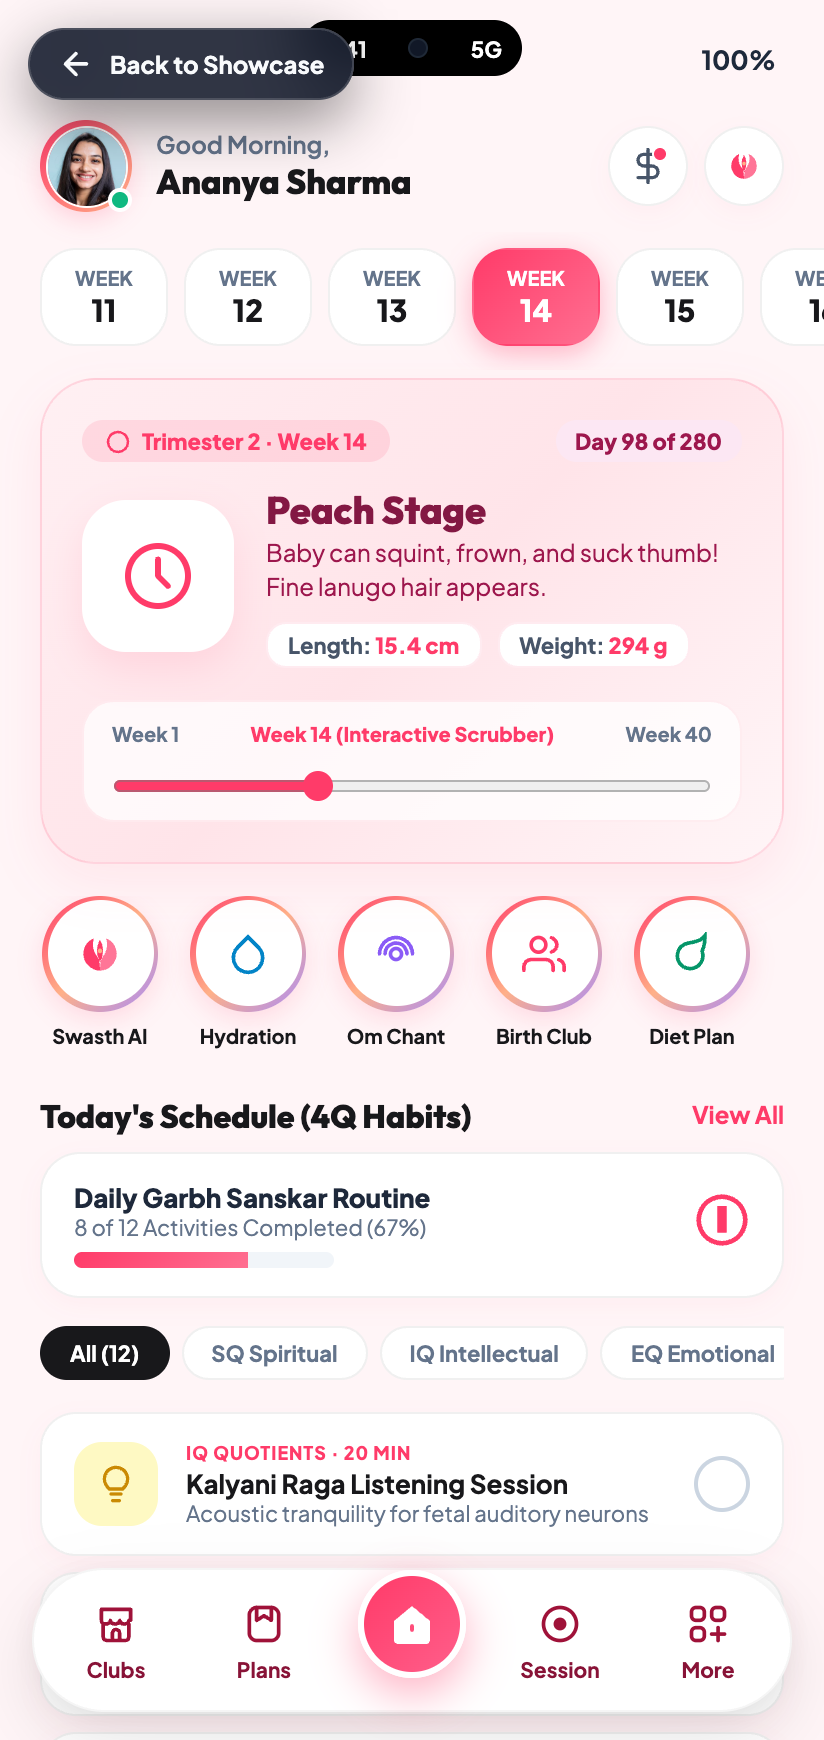
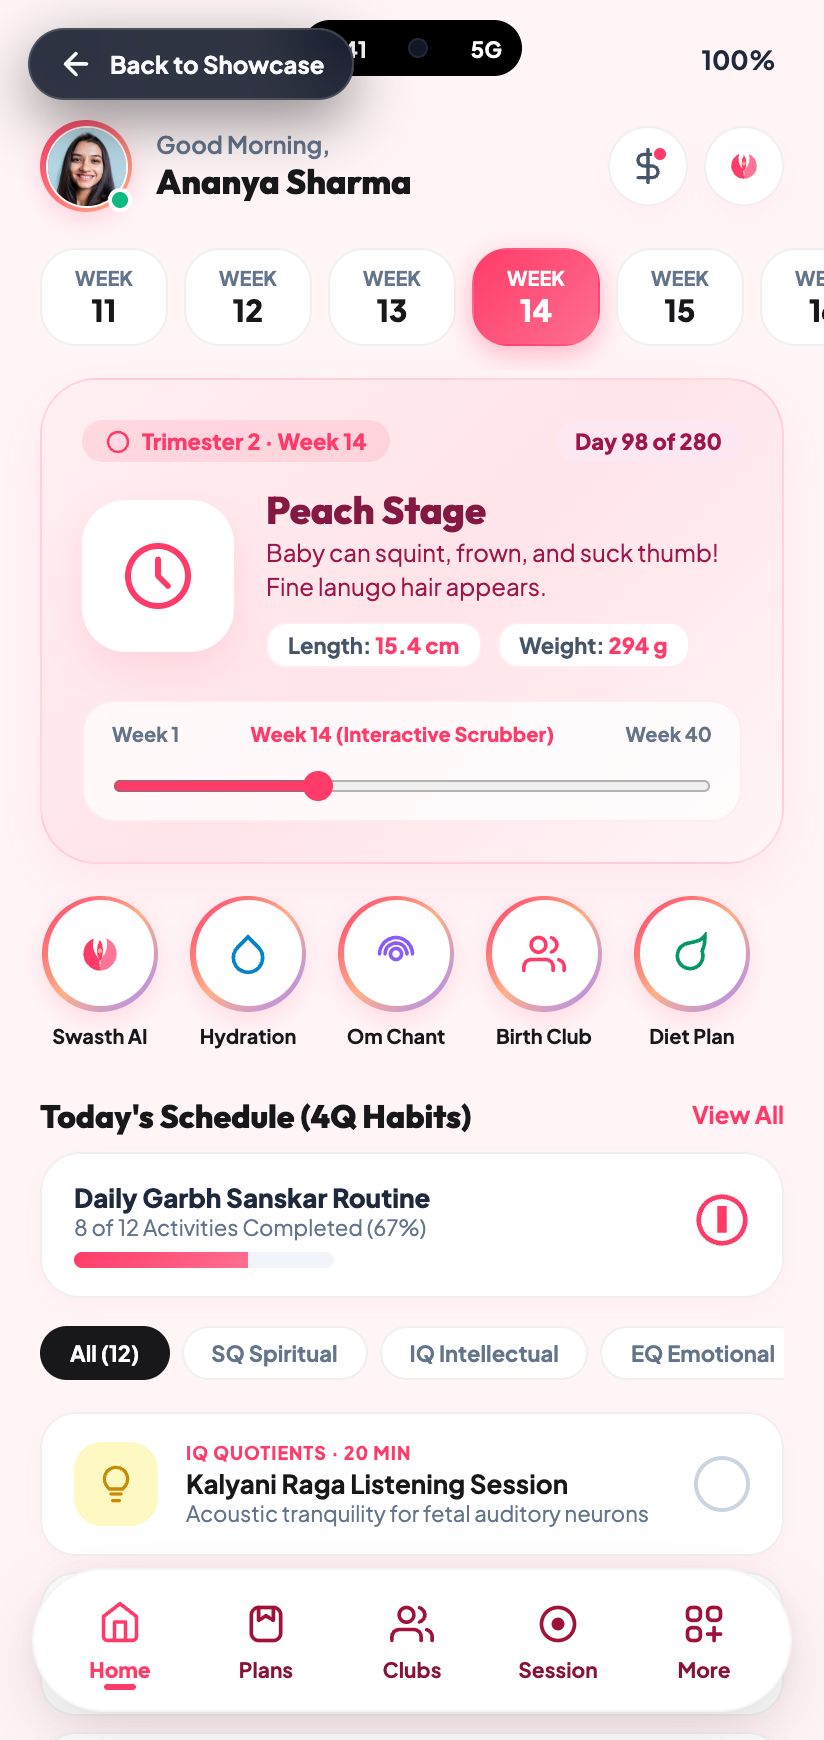
Set Home Page as default page on load and position Home as first active tab in navigation dock

diff --git a/website/app/index.html b/website/app/index.html
@@ -922,13 +922,14 @@
       align-items: center;
       justify-content: center;
       gap: 4px;
-      width: 54px;
+      width: 58px;
       height: 60px;
       border: none;
       background: transparent;
       cursor: pointer;
       color: var(--nav-stroke-idle);
       transition: all 0.2s cubic-bezier(0.16, 1, 0.3, 1);
+      position: relative;
     }
     .ref-nav-tab .tab-icon-wrap {
       width: 24px;
@@ -951,6 +952,15 @@
     .ref-nav-tab.active .tab-label {
       color: var(--nav-active);
       font-weight: 800;
+    }
+    .ref-nav-tab.active::after {
+      content: '';
+      position: absolute;
+      bottom: 5px;
+      width: 16px;
+      height: 3px;
+      border-radius: 999px;
+      background: var(--nav-active);
     }
     
     /* Center Elevated Circular Button (Like Reference) */
@@ -2793,21 +2803,19 @@
 
 
     <!-- ========================================================
-         NAVIGATION DOCK (MATCHING EXACT REFERENCE media_1791232095554)
+         NAVIGATION DOCK: 1. Home | 2. Plans | 3. Clubs | 4. Session | 5. More
          ======================================================== -->
     <div class="reference-nav-dock" id="bottomDock">
       
-      <!-- 1. Clubs -->
-      <button class="ref-nav-tab" id="tabBtn-community" onclick="switchTab('community')">
+      <!-- 1. Home (DEFAULT ACTIVE TAB) -->
+      <button class="ref-nav-tab active" id="tabBtn-home" onclick="switchTab('home')">
         <div class="tab-icon-wrap">
           <svg width="22" height="22" viewBox="0 0 24 24" fill="none" stroke="currentColor" stroke-width="2" stroke-linecap="round" stroke-linejoin="round">
-            <path d="M4 10V4h16v6"/>
-            <path d="M4 10c0 1.5 1.5 2 2.5 2s2.5-.5 2.5-2c0 1.5 1.5 2 2.5 2s2.5-.5 2.5-2c0 1.5 1.5 2 2.5 2s2.5-.5 2.5-2"/>
-            <path d="M5 12v7a2 2 0 0 0 2 2h10a2 2 0 0 0 2-2v-7"/>
-            <path d="M10 21v-4a2 2 0 0 1 4 0v4"/>
+            <path d="M3 9l9-7 9 7v11a2 2 0 0 1-2 2H5a2 2 0 0 1-2-2z"/>
+            <polyline points="9 22 9 12 15 12 15 22"/>
           </svg>
         </div>
-        <span class="tab-label">Clubs</span>
+        <span class="tab-label">Home</span>
       </button>
 
       <!-- 2. Plans (Toolkit & Daily Schedules) -->
@@ -2821,14 +2829,18 @@
         <span class="tab-label">Plans</span>
       </button>
 
-      <!-- 3. Center Home Circular Button -->
-      <div class="ref-nav-center-wrap">
-        <button class="ref-center-circle-btn" id="tabBtn-home" onclick="switchTab('home')" title="Home Dashboard">
-          <svg width="24" height="24" viewBox="0 0 24 24" fill="white">
-            <path d="M12 3L3 10.5V20a2 2 0 0 0 2 2h14a2 2 0 0 0 2-2V10.5L12 3zm0 13a1 1 0 0 1-1-1v-2a1 1 0 0 1 2 0v2a1 1 0 0 1-1 1z"/>
+      <!-- 3. Clubs (Hyperlocal Birth Clubs) -->
+      <button class="ref-nav-tab" id="tabBtn-community" onclick="switchTab('community')">
+        <div class="tab-icon-wrap">
+          <svg width="22" height="22" viewBox="0 0 24 24" fill="none" stroke="currentColor" stroke-width="2" stroke-linecap="round" stroke-linejoin="round">
+            <path d="M17 21v-2a4 4 0 0 0-4-4H5a4 4 0 0 0-4 4v2"/>
+            <circle cx="9" cy="7" r="4"/>
+            <path d="M23 21v-2a4 4 0 0 0-3-3.87"/>
+            <path d="M16 3.13a4 4 0 0 1 0 7.75"/>
           </svg>
-        </button>
-      </div>
+        </div>
+        <span class="tab-label">Clubs</span>
+      </button>
 
       <!-- 4. Session / AI -->
       <button class="ref-nav-tab" id="tabBtn-ai" onclick="switchTab('ai')">
@@ -2841,7 +2853,7 @@
         <span class="tab-label">Session</span>
       </button>
 
-      <!-- 5. More (Settings matching exact ref media_1791234426439) -->
+      <!-- 5. More (Settings & ABHA Privacy) -->
       <button class="ref-nav-tab" id="tabBtn-more" onclick="switchTab('more')">
         <div class="tab-icon-wrap">
           <svg width="22" height="22" viewBox="0 0 24 24" fill="none" stroke="currentColor" stroke-width="2" stroke-linecap="round" stroke-linejoin="round">
@@ -3803,7 +3815,10 @@
     if (window.self !== window.top) { document.body.classList.add('in-iframe'); }
     window.addEventListener('DOMContentLoaded', () => {
       initSqliteEngine();
+      switchTab('home');
     });
+    // Ensure Home is default view immediately on script evaluation
+    try { switchTab('home'); } catch(e){}
   </script>
 </body>
 </html>

diff --git a/website/demo/index.html b/website/demo/index.html
@@ -922,13 +922,14 @@
       align-items: center;
       justify-content: center;
       gap: 4px;
-      width: 54px;
+      width: 58px;
       height: 60px;
       border: none;
       background: transparent;
       cursor: pointer;
       color: var(--nav-stroke-idle);
       transition: all 0.2s cubic-bezier(0.16, 1, 0.3, 1);
+      position: relative;
     }
     .ref-nav-tab .tab-icon-wrap {
       width: 24px;
@@ -951,6 +952,15 @@
     .ref-nav-tab.active .tab-label {
       color: var(--nav-active);
       font-weight: 800;
+    }
+    .ref-nav-tab.active::after {
+      content: '';
+      position: absolute;
+      bottom: 5px;
+      width: 16px;
+      height: 3px;
+      border-radius: 999px;
+      background: var(--nav-active);
     }
     
     /* Center Elevated Circular Button (Like Reference) */
@@ -2793,21 +2803,19 @@
 
 
     <!-- ========================================================
-         NAVIGATION DOCK (MATCHING EXACT REFERENCE media_1791232095554)
+         NAVIGATION DOCK: 1. Home | 2. Plans | 3. Clubs | 4. Session | 5. More
          ======================================================== -->
     <div class="reference-nav-dock" id="bottomDock">
       
-      <!-- 1. Clubs -->
-      <button class="ref-nav-tab" id="tabBtn-community" onclick="switchTab('community')">
+      <!-- 1. Home (DEFAULT ACTIVE TAB) -->
+      <button class="ref-nav-tab active" id="tabBtn-home" onclick="switchTab('home')">
         <div class="tab-icon-wrap">
           <svg width="22" height="22" viewBox="0 0 24 24" fill="none" stroke="currentColor" stroke-width="2" stroke-linecap="round" stroke-linejoin="round">
-            <path d="M4 10V4h16v6"/>
-            <path d="M4 10c0 1.5 1.5 2 2.5 2s2.5-.5 2.5-2c0 1.5 1.5 2 2.5 2s2.5-.5 2.5-2c0 1.5 1.5 2 2.5 2s2.5-.5 2.5-2"/>
-            <path d="M5 12v7a2 2 0 0 0 2 2h10a2 2 0 0 0 2-2v-7"/>
-            <path d="M10 21v-4a2 2 0 0 1 4 0v4"/>
+            <path d="M3 9l9-7 9 7v11a2 2 0 0 1-2 2H5a2 2 0 0 1-2-2z"/>
+            <polyline points="9 22 9 12 15 12 15 22"/>
           </svg>
         </div>
-        <span class="tab-label">Clubs</span>
+        <span class="tab-label">Home</span>
       </button>
 
       <!-- 2. Plans (Toolkit & Daily Schedules) -->
@@ -2821,14 +2829,18 @@
         <span class="tab-label">Plans</span>
       </button>
 
-      <!-- 3. Center Home Circular Button -->
-      <div class="ref-nav-center-wrap">
-        <button class="ref-center-circle-btn" id="tabBtn-home" onclick="switchTab('home')" title="Home Dashboard">
-          <svg width="24" height="24" viewBox="0 0 24 24" fill="white">
-            <path d="M12 3L3 10.5V20a2 2 0 0 0 2 2h14a2 2 0 0 0 2-2V10.5L12 3zm0 13a1 1 0 0 1-1-1v-2a1 1 0 0 1 2 0v2a1 1 0 0 1-1 1z"/>
+      <!-- 3. Clubs (Hyperlocal Birth Clubs) -->
+      <button class="ref-nav-tab" id="tabBtn-community" onclick="switchTab('community')">
+        <div class="tab-icon-wrap">
+          <svg width="22" height="22" viewBox="0 0 24 24" fill="none" stroke="currentColor" stroke-width="2" stroke-linecap="round" stroke-linejoin="round">
+            <path d="M17 21v-2a4 4 0 0 0-4-4H5a4 4 0 0 0-4 4v2"/>
+            <circle cx="9" cy="7" r="4"/>
+            <path d="M23 21v-2a4 4 0 0 0-3-3.87"/>
+            <path d="M16 3.13a4 4 0 0 1 0 7.75"/>
           </svg>
-        </button>
-      </div>
+        </div>
+        <span class="tab-label">Clubs</span>
+      </button>
 
       <!-- 4. Session / AI -->
       <button class="ref-nav-tab" id="tabBtn-ai" onclick="switchTab('ai')">
@@ -2841,7 +2853,7 @@
         <span class="tab-label">Session</span>
       </button>
 
-      <!-- 5. More (Settings matching exact ref media_1791234426439) -->
+      <!-- 5. More (Settings & ABHA Privacy) -->
       <button class="ref-nav-tab" id="tabBtn-more" onclick="switchTab('more')">
         <div class="tab-icon-wrap">
           <svg width="22" height="22" viewBox="0 0 24 24" fill="none" stroke="currentColor" stroke-width="2" stroke-linecap="round" stroke-linejoin="round">
@@ -3803,7 +3815,10 @@
     if (window.self !== window.top) { document.body.classList.add('in-iframe'); }
     window.addEventListener('DOMContentLoaded', () => {
       initSqliteEngine();
+      switchTab('home');
     });
+    // Ensure Home is default view immediately on script evaluation
+    try { switchTab('home'); } catch(e){}
   </script>
 </body>
 </html>

diff --git a/website/index.html b/website/index.html
@@ -879,7 +879,7 @@
       </div>
 
       <div class="phone-mockup-frame">
-        <iframe src="./app/index.html" id="heroPhoneIframe" title="Swasth Live App Simulator"></iframe>
+        <iframe src="./app/index.html" id="heroPhoneIframe" title="Swasth Live App Simulator" onload="try { if (this.contentWindow && typeof this.contentWindow.switchTab === 'function') this.contentWindow.switchTab('home'); } catch(e){}"></iframe>
       </div>
 
       <!-- Quick Switcher Controls for Simulator -->
